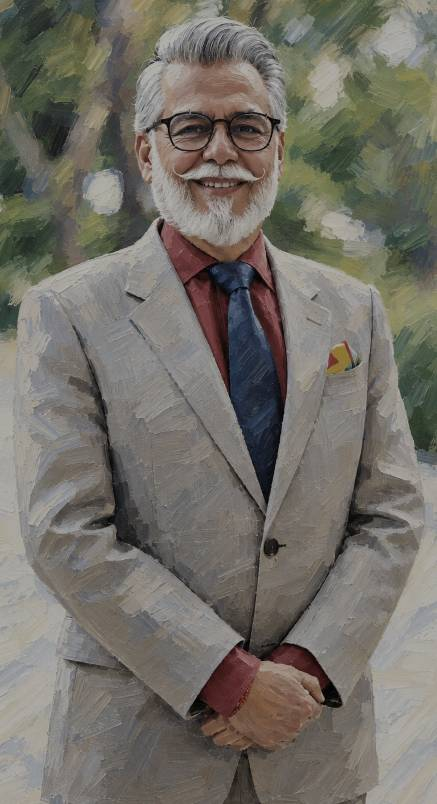
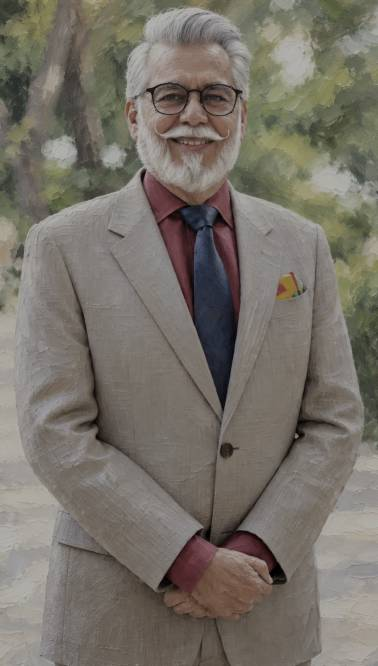
New hero portrait with a quiet background; one word size across every portrait
- Hero: the new garden painting; only he is made of words (face and hands in finer words), the garden behind him kept dim and muted so the call to write leads
- Every painting's words are now one on-screen size (scaled with the screen height, 5.2px on phones) instead of depending on each painting's size, so Journey, Family and Global match the rest; faces keep their finer words

Claude-Session: https://claude.ai/code/session_011tDJ4uajGqNBzUiiqwHwYC

diff --git a/js/data.js b/js/data.js
@@ -68,10 +68,10 @@ window.FACETS = [
 
 // The opening and closing portrait: the studio photograph, warm grey ink
 // the opening portrait: a painting of him in a grey suit, set in words like the painted facets
[1 lines of base64/hex data omitted]
-  artHeads: [[0.49, 0.183, 0.16, 0.12]],
-  feature: [['VISIONARY', 0.26, 0.58, 0.44, 12, -4], ['MENTOR', 0.76, 0.6, 0.38, 6, 4], ['FATHER', 0.25, 0.72, 0.38, 6], ['HUMBLE', 0.76, 0.74, 0.38, 5], ['LEADER', 0.26, 0.85, 0.36, 5]],
-  finalFeature: [['LEGACY', 0.26, 0.6, 0.42, 12, -4], ['HERO', 0.76, 0.6, 0.36, 10, 4], ['GRATITUDE', 0.26, 0.78, 0.42, 5], ['RESPECT', 0.76, 0.78, 0.38, 5]] };
[1 lines of base64/hex data omitted]
+  artScene: { paint: true, natural: true, sat: 0.8, dim: 0.62, src: 'assets/hero-portrait-scene.jpg', x: -0.2351, y: -0.0518, w: 1.4822, h: 1.0518 },   // kept quiet: this screen carries the call to write
+  artRows: 150, artRowsMobile: 104, artFade: 0.88, artFaceScale: 0.45, feature: [],
+  artHeads: [[0.498, 0.155, 0.165, 0.131], [0.573, 0.865, 0.152, 0.064]] };   // his face and folded hands in finer words
 // the closing portrait: him with folded hands against the blue brushwork; only he is made of words, the painting behind him
[1 lines of base64/hex data omitted]
   artScene: { paint: true, src: 'assets/final-portrait-scene.jpg', x: -0.0939, y: -0.1082, w: 1.1584, h: 1.1082 },

diff --git a/js/app.js b/js/app.js
@@ -127,7 +127,7 @@
   // whole rows exactly, and the small words on either side are spaced to meet it, so nothing leaves a gap. The group
   // sits level with the text and fades out softly at the bottom. Scrolling in or out, it comes apart into its words.
   // Phone: as tall as the portraits, panning across the family as you scroll.
-  const WORD_SCALE = 1.7, WORD_SCALE_MOBILE = 1.15;   // the paintings' words, relative to each painting's row count (artRows); phones' pictures are smaller
+  // word size: one on-screen size for every painting, set in build() (wordPx)
   const LARGE_WORDS = false;   // larger words formed inside the paintings (feature lists in data.js); off: every word one size
   const makeArt = (state, f, fi) => {
     const root = document.documentElement, sec = () => $(`.flow [data-state="${state}"]`);
@@ -184,7 +184,7 @@
       g.clearRect(0, 0, W2, H2);
       if (f.artScene.paint) {
         // the painting itself round him, its brushwork as painted, a step darker than the figure so he stays in front
-        g.globalAlpha = 0.84; g.filter = `brightness(0.88) saturate(${f.artScene.sat || 1})`; g.drawImage(simg, ix, iy, iw, ih); g.filter = 'none'; g.globalAlpha = 1;
+        g.globalAlpha = 0.84 * (f.artScene.dim || 1); g.filter = `brightness(${0.88 * (f.artScene.dim ? 0.82 : 1)}) saturate(${f.artScene.sat || 1})`; g.drawImage(simg, ix, iy, iw, ih); g.filter = 'none'; g.globalAlpha = 1;
       } else {
         g.globalAlpha = 0.38; g.filter = 'brightness(0.8) saturate(0.92)'; g.drawImage(simg, ix, iy, iw, ih); g.filter = 'none';
         g.globalAlpha = 0.68; g.drawImage(wc, 0, 0); g.globalAlpha = 1;
@@ -285,7 +285,8 @@
 
       // the row grid: every line the same height
       // every word one size (faces a little finer, so they stay recognisable), set large enough to read
-      const body = ch / (mob ? f.artRowsMobile || 72 : f.artRows || 64) * (mob ? WORD_SCALE_MOBILE : WORD_SCALE), step = body * CAP + body * 0.1, y0 = body * CAP;
+      // every portrait's words are one size on screen, whatever the painting's size (faces finer), so they read as one design
+      const wordPx = mob ? 5.2 : Math.min(9.6, Math.max(7.4, innerHeight * 0.0098)), body = wordPx * D, step = body * CAP + body * 0.1, y0 = body * CAP;
       // The larger words (desktop) are not laid over the picture: their letters are made of the small words themselves,
       // set finer and closer inside each letter and a step brighter, with the words just round the letters dimmed a little,
       // so a word appears out of the texture from a distance and is all small words close up. One main word per picture,
